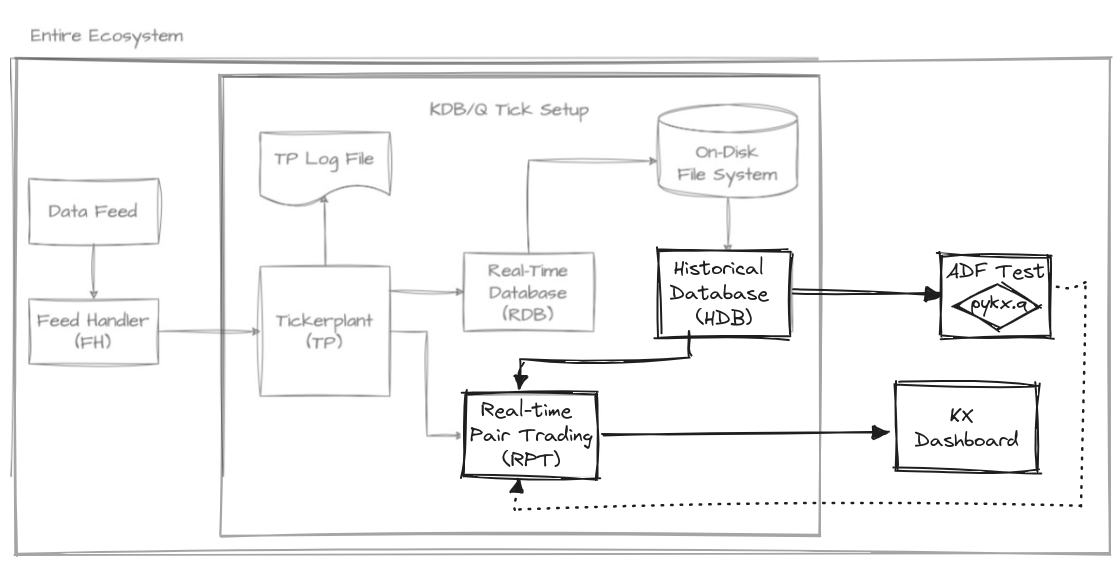
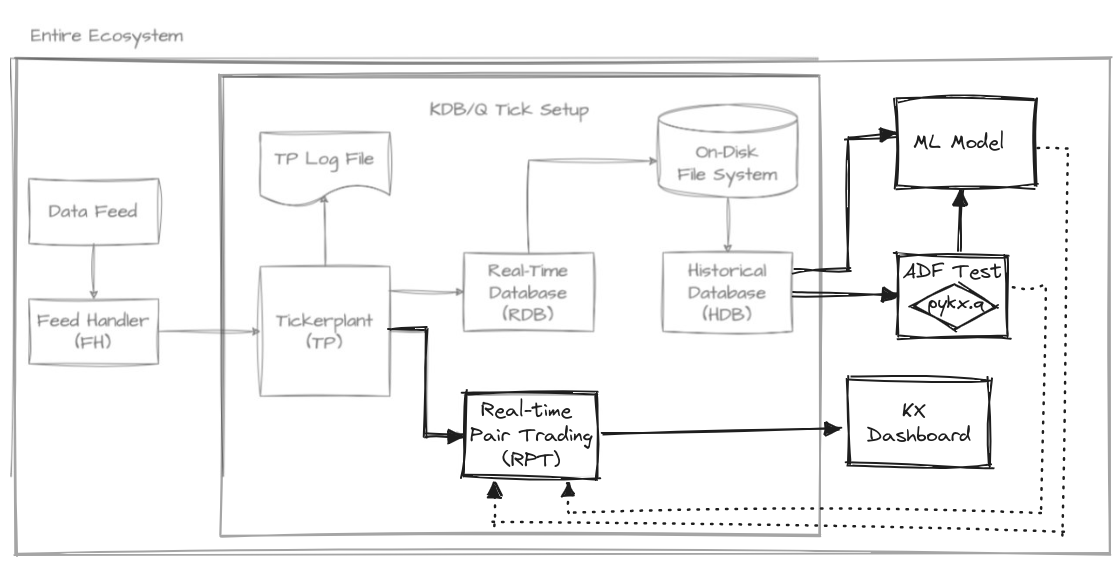
Minor change to Tick introduction and new illustrations

diff --git a/PostPairsTrading.md b/PostPairsTrading.md
@@ -29,17 +29,17 @@ Before diving into this search for cointegrated pairs, let me introduce you the 
 
 ## What is the Tick Architecture?
 
-The tick architecture is designed to handle high-frequency trading data efficiently. At its heart is the tickerplant (TP), a crucial component responsible for receiving and timestamping incoming data, then broadcasting it to other components such as the real-time database (RDB) and historical database (HDB). The TP ensures that data is distributed in a timely manner, allowing for real-time analytics and decision-making. The RDB stores recent data for quick access, while the HDB archives older data for long-term storage and analysis. Additionally, the feedhandler plays a vital role by interfacing with external data sources, making sure that the TP receives accurate and up-to-date information. This architecture guarantees seamless data flow and rapid access to both real-time and historical data, making it ideal for high-frequency trading applications.
+The tick architecture can be seen as a series of interconnected Q processes designed to handle high-frequency trading data very efficiently. At its heart is the tickerplant (TP), a crucial component responsible for receiving and timestamping incoming data, then broadcasting it to other components such as the real-time database (RDB) and historical database (HDB). The TP ensures that data is distributed in a timely manner, allowing for real-time analytics and decision-making. The RDB stores recent data for quick access, while the HDB archives older data for long-term storage and analysis. Additionally, the feedhandler plays a vital role by interfacing with external data sources, making sure that the TP receives accurate and up-to-date information. This architecture guarantees seamless data flow and rapid access to both real-time and historical data, making it ideal for high-frequency trading applications.
 
 ![Architecture](resources/general-architecture.png)
 
-To develop the pair trading strategy, we have added a couple of new components to the default vanilla architecture: ADF Test, Real-time Pair Trading (RPT) and KX Dashboard. They will be introduced as required. So finally, let's move on to the very first step of this journey: finding cointegrated pairs.
+To develop the pair trading strategy, we have added a couple of new components to the default vanilla architecture: ADF Test, ML Model, Real-time Pair Trading (RPT) and KX Dashboard. They will be introduced as required. So finally, let's move on to the very first step of this journey: finding cointegrated pairs.
 
 ## Identifying cointegrated indexes
 
 Let's focus on the ADF Test component. It reads data from the HDB and provides the means for the quant to determine a cointegrated pair as output, which will then be supplied as input for further steps.
 
-![Arch 1st Part](resources/general-architecture-top.png)
+![Arch 1st Part](resources/general-architecture-adf.png)
 
 Let's move on to the code we need to implement it.
 
@@ -230,7 +230,7 @@ This precisely meets one of our objectives: getting **a comprehensive method for
 
 Now that we have selected a pair of cointegrated indices and built a model to calculate their relationships, it's time to formalize its subscription as a real-time component. Once we start receiving data from the TP, we can apply the model to produce the spreads, which will then be sent to the dashboard.
 
-![Arch-bottom](resources/general-architecture-bottom.png)
+![Arch-bottom](resources/general-architecture-rpt.png)
 
 
 Real-time components can manifest their interest for a particular table and for a subset of symbols. As a result from previous steps, we know we are interested on the quotes for SP500 and NASDAQ100:
